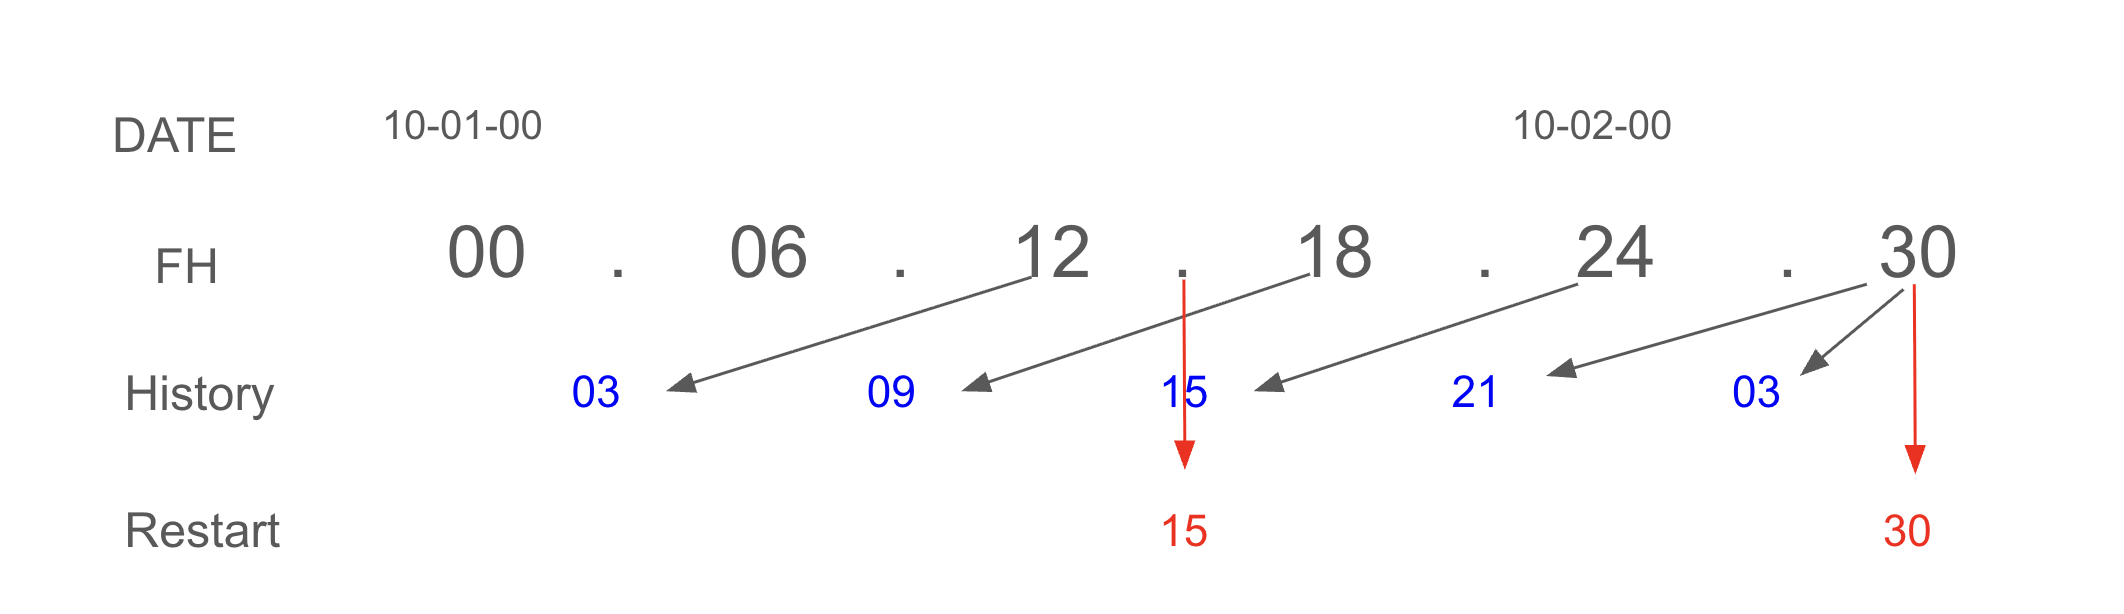
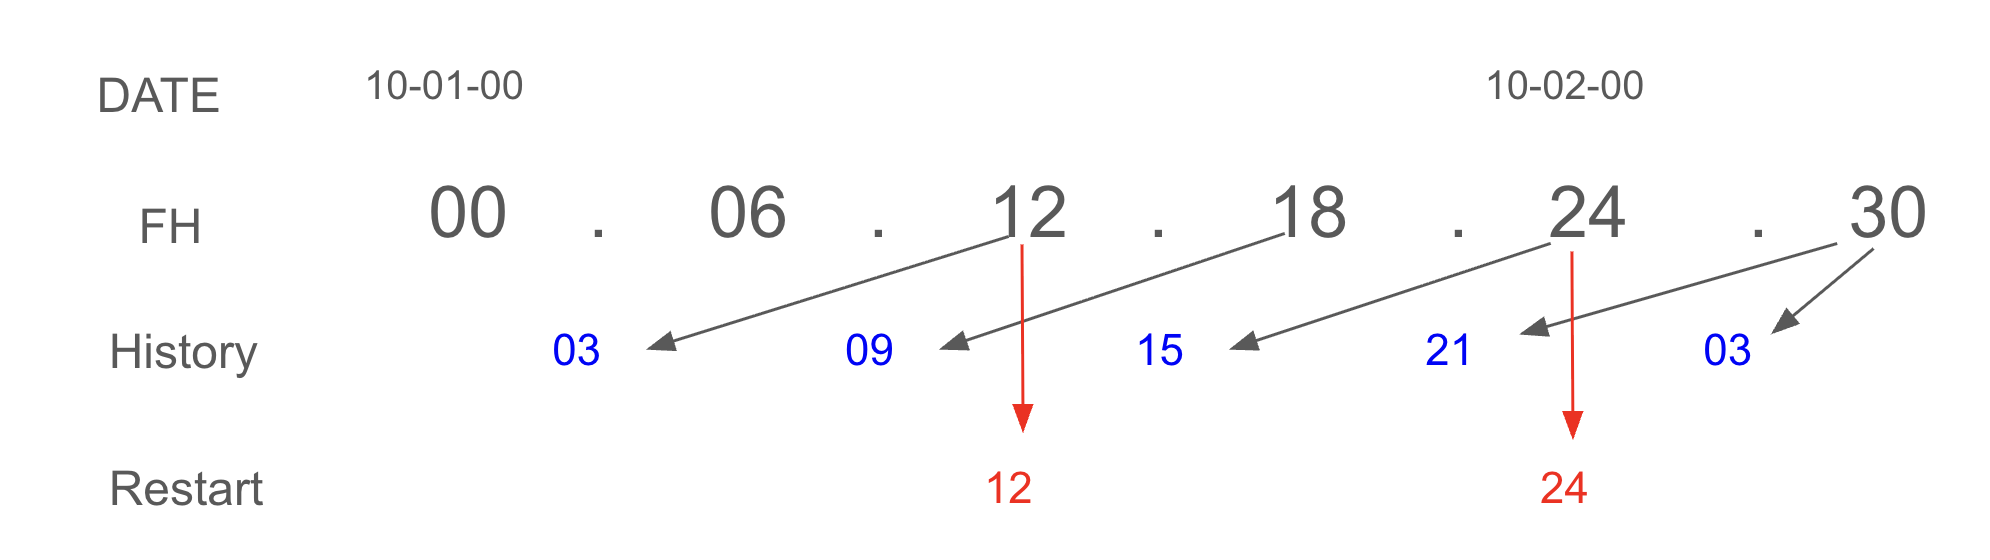
update MOM6 and new guide text; add images

diff --git a/MOM6-interface/docs/feature_guide.md b/MOM6-interface/docs/feature_guide.md
@@ -6,19 +6,17 @@ The MOM6 output logging feature is designed to track the completion of MOM6 hist
 This feature is specific to UWM operational requirements and configurations (eg specific output frequencies in hours) and may
 break if used outside the scope of intended use.
 
-The feature is enabled by adding a namelist to the model `input.nml` which can be used to define the file names, frequencies
-and types (snapshot or averages) which are to be tracked. The user is responsible for ensuring that these settings match the
-contents of the `diag_table` in use by the model. From the user-configuration, one or more Alarms are enabled at the desired
-frequencies. When an Alarm rings, a filename is constructed referencing the model time and the initial state of the file is
-recorded. Depending on the characteristics of the file at creation, the criteria to declare a file complete is set.
+The feature is enabled by adding a namelist to the model `input.nml` which can be used to define the history output frequencies,
+filenames and types (snapshot or averages) which are to be tracked. The user is responsible for ensuring that these settings match
+the contents of the `diag_table` in use by the model. From the user-configuration, one or more tracking Alarms are enabled at the
+desired frequencies. When an Alarm rings, a filename is constructed referencing the model time and the initial state of the file is
+recorded. Depending on the characteristics of the file at creation, the criteria to declare a file complete is defined.
 
 The file state will be checked at each suceeding ModelAdvance until the appropriate completion criteria is met: either when the
 unlimited dimension in the file is greater than zero or when the unlimited dimension is greater than zero and the filesize is
 larger than the initial size. When a file is determined to be complete, a log file is recorded containing the forecast hour,
 the valid time, the name of the output file and the last completed restart file. The log file can then be used by any
-related workflow (e.g. [global-workflow](https://github.com/NOAA-EMC/global-workflow).
-
-## File Sequencing
+related workflow (e.g. [global-workflow](https://github.com/NOAA-EMC/global-workflow)).
 
 To illustrate the concepts implemented in the output logging feature, consider the following diagram:
 
@@ -26,32 +24,50 @@ To illustrate the concepts implemented in the output logging feature, consider t
 
 In this case, MOM6 is providing 6-hourly output; the model begins at hour=00 and runs for 30 hours; the output alarm will
 ring every 6 hours. It is important to remember that alarms ring at the ModelAdvance nextTime. If the model in this case is
-running with a 30 minute coupling frequency, the alarm at hour=12:00 will ring at the modelAdvance when the currTime = 11:30
-and the nextTime = 12:00.
+running with a 30 minute coupling frequency, the alarm at hour=12:00 will ring when the modelAdvance currTime = 11:30
+and the ModelAdvance nextTime = 12:00.
 
 MOM6 history files for time-averaged output are timestamped at the middle of the averaging window. The first MOM6 history output
-file produced is the hour=03 file, representing the average between hours 0 and 6. It will be created when the alarm rings at
-nextTime=12:00 and be completed on the next timestep. That file sequencing pattern holds until the model stop time. At finalization,
-there are two final history files that are written: the "pending" file (h=21) as well as the final h=03 file.
+file produced is the hour = 03 file, representing the average between hours 0 and 6. It will be created when the alarm rings at
+nextTime = 12:00 and be completed on the next timestep (when the currTime = 12:00). That file sequencing pattern holds until the
+model stop time. At finalization, there are two final history files that are written: the "pending" file (h = 21) as well as the
+final h = 03 file.
 
-Restarts for MOM6 are written by MOM6 directly, not using FMS as for the history files. Model restarts are written, complete, at
-whatever frequency or hour requested. In the above diagram, restarts written at a 15-hour frequency will be written exactly
-at those hours.
+Restarts for MOM6 are written by MOM6 directly, not using FMS as for the history files. Model restarts are written, complete, when
+the ModelAdance nexTime matches a requested hour. In the above diagram, restarts written at hour = 12  will be when the ModelAdvance
+currTime = 11:30 and the ModelAdvance nextTime = 12:00.
 
-The output log file written at forecast hour=24 for this case (`20111002.000000.mom6.06h`) would contain the following information:
+The output log file written at forecast hour = 18 for this case (`20111001.180000.mom6.06h`) would contain the following information:
 
 ```text
 completed: mom6.06h
-forecast hour:    24.000
-valid time:     2011      10       2       0       0       0
-last output: ./MOM6_OUTPUT/ocn_2011_10_01_15_00.nc
-last restart:     2011      10       1      15       0       0
+forecast hour:    18.000
+valid time:     2011      10       1      18       0       0
+last output: ./MOM6_OUTPUT/ocn_2011_10_01_09_00.nc
+last restart:     2011      10       1      12       0       0
 ```
 
-In the above case, since the log file for both the h=21 and h=03 file are both written at the same model hour (FH=30 in this case),
+In the above case, since the log file for both the h = 21 and h = 03 file are both written at the same model hour (FH = 30 in this case),
 the log for the very last file is denoted with `lstop` appended to the file name (`20111002.060000.mom6.lstop.06h`).
 
-## Feature Configuration
+@note The above sample log file also highlights the essential feature of the output sequencing. At FH = 18, the only output files
+which are complete are those at hours 03 and 09; the history file for the interval which *ends* at FH = 18 (the h = 15 file) has not
+yet been written.
+
+# Feature Details
+
+The feature uses types; config is static, the state is time-evolving....blah blah.
+When io_layout is enabled, the IO rootpe is colocated with computational rootpe...blah blah.
+The feature is a stub for CESM
+Run is called each advance and twice at Finalize.
+
+The outputlog feature consists of two additional fortran modules in `config_src/drivers/nuopc_cap`:
+
+* mom_cap_outputlog.F90
+* mom_outputlog_methods.F90
+
+
+## Configuration
 
 The output log feature is enabled with a `MOM_outputlog_nml` namelist added to the `input.nml`. For example, the following values
 will set the logging feature to track 6-hourly files, which (using the `diag_table`) have a filename prefix of `ocn` and are defined
@@ -66,6 +82,15 @@ as time-averaged values. No debug information will be added to the stdout file.
 /
 ```
 
+At a minimum, the desired tracking frequency must be provided, which will default to time-averaged files with the file prefix `ocn`.
+The following namelist will be treated identically as that above
+
+```text
+&MOM_outputlog_nml
+  outputlog_fh = 6
+/
+```
+
 The following rules apply the namelist options for output logging:
 
 ### Logging Frequency
@@ -76,24 +101,35 @@ files are not allowed but 6-hourly average and 3-hourly snapshot files are.
 
 ### Filename Prefix
 
-If a single frequency is requested, no filename prefix is required. A default prefix of `ocn_` will be used. It is the user's
-responsibility that the default matches the specification in the `diag_table`. Otherwise, they must set the actual filename
-prefix called for in the `diag_table`. If more than a single frequency is requested, the user must provide filename prefixes
-for all frequencies (again ensuring matches to the `diag_table`). The filename prefix can have a maximum length of 12 (not including
-the trailing underscore, which will be appended).
+If a single frequency is requested, no filename prefix is required. A default prefix of `ocn` will be used. It is the user's
+responsibility that the default matches the specification in the `diag_table`. Otherwise, the filename prefix must be set to
+the actual filename prefix called for in the `diag_table`. If more than a single frequency is requested, the user must provide
+filename prefixes for all frequencies (again ensuring matches to the `diag_table`). The filename prefix can have a maximum
+length of 12 (not including the trailing underscore, which will be appended).
 
 ### File Time Reduction
 
-Either instantaneous (snapshot) files or time averaged files are supported. These are specified by `treduce` settings of `none` and
-`average`, respectfully. The file name format for time averaged output is asssumed to be timestamped with the mid-point of the
-averaging window (i.e. hour=09 for the 6h-12h average). For snapshot output, the timestamp will be the time of the snapshot. The user
-is responsible for ensuring that the diag_table in use matches these definitions.
+Either instantaneous (snapshot) files or time averaged files are supported. These are specified by the namelist `treduce` settings
+of `none` and `average`, respectfully. The file name format for time averaged output is asssumed to be timestamped with the mid-point
+of the averaging window (i.e. 09 for the 6h-12h average). For snapshot output, the timestamp will be the time of the snapshot.
+The user is responsible for ensuring that the diag_table in use matches these definitions.
+
+### Feature Debugging
+
+When enabled in the namelist, debugging print statements will be written to standard out. These statements track the state of the
+feature tracking at each step through the ModelAdvance. Print statements will be pre-pended with an identifing routine, for example
+`MOM_cap:(track_freqn)`.
+
 
 ## Feature Initialization
 
+### Configuration, State and Time types
+### Alarm Initialization
 
 ## File Tracking Sequence
-
+### File State at Creation
+### Determining File Completion
+### Finalization
 
 ## File Tracking Example
 
